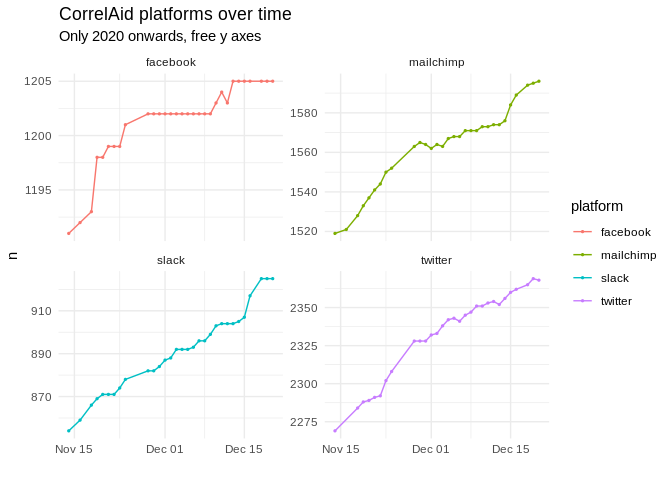
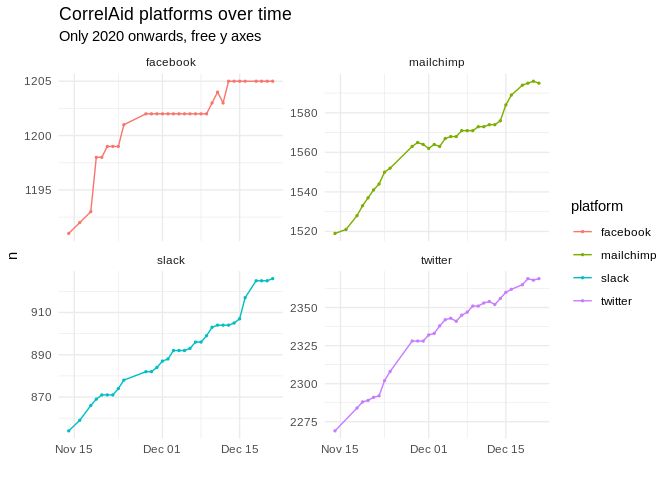
🤖 CRON - update daily data

diff --git a/README.md b/README.md
@@ -25,7 +25,7 @@ count and general network data on a daily basis using
 
 ### Plots
 
-*last updated*: 2020-12-20
+*last updated*: 2020-12-21
 23:50:13
 
 ![](README_files/figure-gfm/plot-alltime-1.png)<!-- -->
